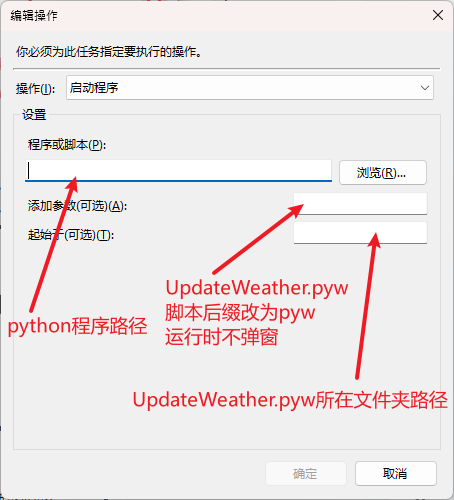
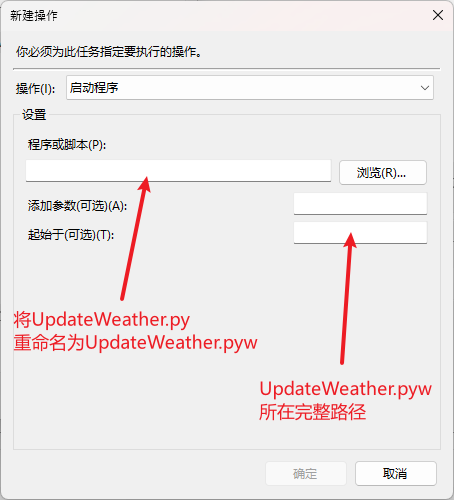
update readme

diff --git a/README.md b/README.md
@@ -6,17 +6,16 @@
 [![GitHub all releases](https://img.shields.io/github/downloads/hellsakura/UpdateWeather/total?color=brightgreen&style=flat-square&logo=github)](https://github.com/HellSakura/UpdateWeather/releases/latest)
 
 ## 使用说明
-* 申请和风天气api，获取`key`和`location`，并填入`config.ini`中
+* [申请和风天气api](https://dev.qweather.com/docs/configuration/project-and-key/)，获取`key`和`location`，并填入`config.ini`中
 
-`location` 即 LocationID 可通过[城市搜索服务](https://dev.qweather.com/docs/api/geoapi/city-lookup/)获取
+`location` 即 LocationID 可通过[城市搜索服务](https://dev.qweather.com/docs/api/geoapi/city-lookup/)获取或直接在和风天气提供的[China-City-List](https://github.com/qwd/LocationList/blob/master/China-City-List-latest.csv)中查找
 ```
 [DEFAULT]
 key = 
 location = 
 ```
-~~安装好依赖库后，运行`UpdateWeather.py`即可在当前目录下生成`output.png`天气图片，并自动刷入墨水屏~~
 
-* 现在可以直接从release里下载打包好的exe文件直接运行了（仍需要放置`hidapi-win.zip`中的文件）
+* 直接从release里下载打包好的exe文件运行（需要放置`hidapi-win.zip`中的文件）
 
 >需要将`hidapi-win.zip`中对应架构的`hidapi.pdb` `hidapi.lib` `hidapi.dll` 放置在相应的目录中。   
 例如64位系统电脑请使用X64文件夹下的文件，放置于`C:\Windows\System32`中
@@ -29,19 +28,34 @@ location =
 
 
 ## 如何刷入墨水屏（任选其一）
-* ~~直接运行`UpdateWeather.py`，会自动刷入墨水屏~~
 
-* 现在直接运行打包好的exe程序并配置好`config.ini`即可
-* ~~运行`picUpdate.py` 即可~~    
-     >`picUpdate.py`和`hidapi-win.zip`来自群友`[GNX-Susanoo]`，感谢！
+* 直接运行打包好的exe程序并配置好`config.ini`即可
 
 * 使用[xingrz](https://github.com/xingrz/zmk-config_helloword_hw-75)开发的  [zmkx.app](https://zmkx.app/)   上位机驱动刷入
 
+* ~~运行`UpdateWeather.py`，会自动刷入墨水屏~~
+* ~~运行`picUpdate.py`~~    
+     >`picUpdate.py`和`hidapi-win.zip`来自群友`[GNX-Susanoo]`，感谢！
+
 >⚠注意：无论使用哪种方式，扩展模块都需要刷入 xingrz 的[固件](https://github.com/xingrz/zmk-config_helloword_hw-75/tree/master/config/boards/arm/hw75_dynamic)，才能正常工作
 ## Tips        
-* 如果想实现后台自动刷新，最好在自己系统配置python3.8环境，并在win计划任务中添加python程序
-![Alt text](docs/task1.png)         
-* 当然你也可以直接在计划任务中选择添加打包好的程序，在起始于中填入`UpdateWeather.exe`所在完整路径即可
+* 如果想实现后台自动刷新，最好在自己系统配置python3.8或以上版本的Python环境，并在win计划任务中添加python程序
+### 方法一 （无弹窗）
+* 在计划任务中添加python程序，将`UpdateWeather.py`重命名为`UpdateWeather.pyw`         
+在程序或脚本中填入`UpdateWeather.pyw`所在完整路径          
+在起始于中填入`UpdateWeather.pyw`所在文件夹的完整路径
+
+
+     >例：程序放置于D:\UpdateWeather\文件夹       
+     那么      
+     程序或脚本中填入D:\UpdateWeather\UpdateWeather.pyw          
+     起始于中填入 D:\UpdateWeather
+     
+     ![Alt text](docs/task1.png)   
+   
+### 方法二 （有弹窗）   
+
+* 直接在计划任务中选择添加打包好的程序，在起始于中填入`UpdateWeather.exe`所在完整路径即可      
 ![Alt text](docs/task2.png)
      >这会在每次刷新时弹窗
 ## Todolist    ![咕咕咕](https://img.shields.io/badge/-%E5%92%95%E5%92%95%E5%92%95-blue?style=flat-square)
